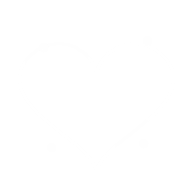
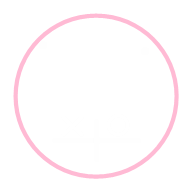
mejoras

Changed region(s): [[0.0625, 0.0625, 0.9375, 0.9375]]

diff --git a/styles.css b/styles.css
@@ -8,10 +8,33 @@
   --border: rgba(255,77,136,0.14);
   --text-main: #23162a;
   --text-soft: rgba(35,22,42,0.72);
+  --text-strong: #4a2740;
   --mio-bg: rgba(255,214,231,0.98);
   --suyo-bg: rgba(230,240,255,0.98);
+  --chat-bg: rgba(255,255,255,0.82);
+  --card-bg: linear-gradient(180deg, rgba(255,255,255,0.92), rgba(255,248,251,0.82));
+  --grid-line: rgba(255,77,136,0.05);
   color-scheme: light;
   font-size: 16px;
+}
+
+:root[data-theme="dark"] {
+  --theme-color: #ff6da3;
+  --theme-color-2: #8f74ff;
+  --bg-1: #17111f;
+  --bg-2: #271a35;
+  --surface: rgba(29,20,43,0.72);
+  --surface-strong: rgba(43,30,60,0.86);
+  --border: rgba(255,255,255,0.10);
+  --text-main: #f8eff8;
+  --text-soft: rgba(248,239,248,0.70);
+  --text-strong: #fff0fa;
+  --mio-bg: rgba(95,46,79,0.96);
+  --suyo-bg: rgba(49,63,95,0.96);
+  --chat-bg: rgba(24,18,37,0.82);
+  --card-bg: linear-gradient(180deg, rgba(37,26,51,0.94), rgba(26,18,39,0.88));
+  --grid-line: rgba(255,255,255,0.05);
+  color-scheme: dark;
 }
 
 * { box-sizing: border-box; }
@@ -39,7 +62,7 @@ body::before {
   content: "";
   position: fixed;
   inset: 0;
-  background-image: linear-gradient(rgba(255,77,136,0.05) 1px, transparent 1px), linear-gradient(90deg, rgba(255,77,136,0.05) 1px, transparent 1px);
+  background-image: linear-gradient(var(--grid-line) 1px, transparent 1px), linear-gradient(90deg, var(--grid-line) 1px, transparent 1px);
   background-size: 28px 28px;
   opacity: 0.22;
   pointer-events: none;
@@ -91,9 +114,15 @@ h1, h2, h3 {
   padding: 1.4rem;
   border: 1px solid var(--border);
   border-radius: 28px;
-  background: linear-gradient(180deg, rgba(255,255,255,0.92), rgba(255,248,251,0.82));
+  background: var(--card-bg);
   box-shadow: 0 18px 50px rgba(255,77,136,0.10);
   backdrop-filter: blur(18px);
+}
+
+.hero-actions {
+  display: flex;
+  justify-content: flex-end;
+  margin-bottom: 0.35rem;
 }
 
 .eyebrow {
@@ -108,6 +137,8 @@ h1, h2, h3 {
 h1 { font-size: clamp(2rem, 7vw, 4rem); animation: heartbeat 2.4s infinite; }
 h2 { font-size: clamp(1.15rem, 3vw, 1.5rem); color: #ffd8ea; }
 h3 { font-size: clamp(0.98rem, 2.6vw, 1.05rem); color: var(--text-soft); max-width: 60ch; margin: 0 auto; }
+
+:root[data-theme="dark"] h2 { color: #ffd0eb; }
 
 @keyframes heartbeat {
   0%, 100% { transform: scale(1); }
@@ -135,6 +166,64 @@ h3 { font-size: clamp(0.98rem, 2.6vw, 1.05rem); color: var(--text-soft); max-wid
   padding: 0.85rem 1rem;
   display: grid;
   gap: 0.35rem;
+}
+
+.players-panel {
+  display: grid;
+  grid-template-columns: repeat(2, minmax(0, 1fr));
+  gap: 0.65rem;
+}
+
+.player-badge {
+  display: flex;
+  align-items: center;
+  gap: 0.7rem;
+  padding: 0.8rem 0.9rem;
+  border-radius: 18px;
+  background: var(--surface-strong);
+  border: 1px solid var(--border);
+  box-shadow: inset 0 1px 0 rgba(255,255,255,0.08);
+}
+
+.player-badge[data-active-turn="true"] {
+  transform: translateY(-1px);
+  box-shadow: 0 12px 24px rgba(255,77,136,0.12);
+}
+
+.player-dot {
+  width: 12px;
+  height: 12px;
+  border-radius: 999px;
+  background: #cfc5d6;
+  box-shadow: 0 0 0 5px rgba(255,255,255,0.18);
+  flex: 0 0 auto;
+}
+
+.player-badge[data-status="online"] .player-dot {
+  background: #28c76f;
+}
+
+.player-badge[data-status="offline"] .player-dot {
+  background: #f4b740;
+}
+
+.player-badge[data-status="waiting"] .player-dot {
+  background: #c5b8cc;
+}
+
+.player-meta {
+  display: grid;
+  gap: 0.12rem;
+  text-align: left;
+}
+
+.player-meta strong {
+  color: var(--text-strong);
+}
+
+.player-meta span {
+  color: var(--text-soft);
+  font-size: 0.86rem;
 }
 
 .session-banner {
@@ -190,6 +279,12 @@ input {
   box-shadow: inset 0 0 0 1px rgba(255,77,136,0.14);
 }
 
+:root[data-theme="dark"] input {
+  color: var(--text-main);
+  background: rgba(255,255,255,0.08);
+  box-shadow: inset 0 0 0 1px rgba(255,255,255,0.08);
+}
+
 button {
   background: linear-gradient(135deg, var(--theme-color), var(--theme-color-2));
   color: #fff;
@@ -203,6 +298,12 @@ button.secondary-btn {
   color: #5f2948;
   border: 1px solid rgba(255,77,136,0.16);
   box-shadow: 0 12px 20px rgba(255,77,136,0.08);
+}
+
+:root[data-theme="dark"] button.secondary-btn {
+  background: rgba(255,255,255,0.08);
+  color: var(--text-main);
+  border-color: rgba(255,255,255,0.08);
 }
 
 button:hover { transform: translateY(-2px); box-shadow: 0 14px 24px rgba(255,77,136,0.24); }
@@ -252,6 +353,10 @@ button:active { transform: translateY(0); }
   transition: transform 0.18s ease, box-shadow 0.18s ease, filter 0.18s ease;
 }
 
+:root[data-theme="dark"] .celda {
+  background: linear-gradient(180deg, rgba(44,31,60,0.98), rgba(31,23,43,0.96));
+}
+
 .celda:hover { transform: translateY(-2px) scale(1.02); filter: brightness(1.02); }
 .celda span {
   position: absolute;
@@ -291,7 +396,7 @@ button:active { transform: translateY(0); }
   max-height: 540px;
   overflow-y: auto;
   border-radius: 16px;
-  background: rgba(255,255,255,0.82);
+  background: var(--chat-bg);
   padding: 0.45rem;
   border: 1px solid rgba(255,77,136,0.10);
 }
@@ -326,6 +431,10 @@ button:active { transform: translateY(0); }
   box-shadow: 0 8px 18px rgba(255,77,136,0.08);
 }
 
+:root[data-theme="dark"] .mensaje {
+  color: var(--text-main);
+}
+
 .mensaje.mio { background: var(--mio-bg); border-bottom-right-radius: 4px; }
 .mensaje.suyo { background: var(--suyo-bg); border-bottom-left-radius: 4px; }
 
@@ -337,6 +446,11 @@ button:active { transform: translateY(0); }
 .reply-text { font-size: 0.9em; color: #555; white-space: nowrap; overflow: hidden; text-overflow: ellipsis; }
 .reactions-container { display: flex; gap: 4px; margin-top: 4px; flex-wrap: wrap; }
 .reaction-pill { background: rgba(255,255,255,0.9); border-radius: 999px; padding: 2px 6px; font-size: 0.8em; box-shadow: 0 1px 2px rgba(0,0,0,0.08); }
+
+:root[data-theme="dark"] .reaction-pill {
+  background: rgba(255,255,255,0.12);
+  color: var(--text-main);
+}
 
 .mensaje img {
   width: 100%;
@@ -385,6 +499,7 @@ button:active { transform: translateY(0); }
   .page-shell { padding: 0.75rem; }
   .hero-card { padding: 1rem; border-radius: 22px; }
   #controls, #chat, .status-panel { border-radius: 18px; }
+  .players-panel { grid-template-columns: 1fr; }
   .game-layout { grid-template-columns: 1fr; }
   #tablero { max-width: 420px; margin: 0 auto; }
   #chatBox { min-height: 240px; }

diff --git a/app.js b/app.js
@@ -30,7 +30,8 @@ const PRESENCE_STALE_MS = 25000;
 const STORAGE_KEYS = {
   clientId: "tresenraya-client-id",
   playerName: "tresenraya-player-name",
-  gameCode: "tresenraya-game-code"
+  gameCode: "tresenraya-game-code",
+  theme: "tresenraya-theme"
 };
 
 function getOrCreateClientId() {
@@ -65,6 +66,10 @@ const dom = {
   marcador: document.getElementById("marcador"),
   sessionBanner: document.getElementById("sessionBanner"),
   instalarBtn: document.getElementById("instalarBtn"),
+  themeToggleBtn: document.getElementById("themeToggleBtn"),
+  themeColorMeta: document.getElementById("themeColorMeta"),
+  player1Badge: document.getElementById("player1Badge"),
+  player2Badge: document.getElementById("player2Badge"),
   typingIndicator: document.getElementById("typingIndicator"),
   replyPreview: document.getElementById("replyPreview"),
   replyPreviewAuthor: document.getElementById("replyPreviewAuthor"),
@@ -78,9 +83,49 @@ const dom = {
 dom.nombreInput.value = localStorage.getItem(STORAGE_KEYS.playerName) || "";
 dom.codigoInput.value = localStorage.getItem(STORAGE_KEYS.gameCode) || "";
 
+function obtenerTemaInicial() {
+  const temaGuardado = localStorage.getItem(STORAGE_KEYS.theme);
+  if (temaGuardado === "light" || temaGuardado === "dark") return temaGuardado;
+  return window.matchMedia("(prefers-color-scheme: dark)").matches ? "dark" : "light";
+}
+
+function aplicarTema(theme) {
+  document.documentElement.dataset.theme = theme;
+  localStorage.setItem(STORAGE_KEYS.theme, theme);
+  const esOscuro = theme === "dark";
+  dom.themeToggleBtn.textContent = esOscuro ? "☀ Modo claro" : "🌙 Modo oscuro";
+  dom.themeColorMeta.setAttribute("content", esOscuro ? "#20152d" : "#ff4d88");
+}
+
+aplicarTema(obtenerTemaInicial());
+
 function setSessionBanner(texto, state = "idle") {
   dom.sessionBanner.textContent = texto;
   dom.sessionBanner.dataset.state = state;
+}
+
+function actualizarIndicadoresJugadores() {
+  const jugadores = [
+    { slot: "jugador1", badge: dom.player1Badge, fallback: "Jugador 1" },
+    { slot: "jugador2", badge: dom.player2Badge, fallback: "Jugador 2" }
+  ];
+
+  jugadores.forEach(({ slot, badge, fallback }) => {
+    const jugador = estadoJuegoActual?.[slot];
+    const titulo = badge.querySelector("strong");
+    const subtitulo = badge.querySelector("span:last-child");
+    const activo = esPresenciaActiva(jugador);
+    const esTurno = estadoJuegoActual?.turno === slot;
+    const esYo = jugador?.id === clientId;
+
+    titulo.textContent = jugador?.nombre || fallback;
+    subtitulo.textContent = jugador
+      ? `${activo ? "En linea" : "Desconectado"}${esYo ? " · Tú" : ""}${esTurno ? " · Turno" : ""}`
+      : "Esperando...";
+
+    badge.dataset.status = jugador ? (activo ? "online" : "offline") : "waiting";
+    badge.dataset.activeTurn = esTurno ? "true" : "false";
+  });
 }
 
 function esJugadorActivo(jugador) {
@@ -324,6 +369,7 @@ function escucharJuego() {
 
     actualizarTableroUI();
     actualizarMarcadorUI();
+    actualizarIndicadoresJugadores();
     actualizarTypingIndicator();
     if (state.estado === "finalizado") {
       setSessionBanner("Partida finalizada. Puedes reiniciar cuando quieras.", "success");
@@ -664,6 +710,10 @@ dom.mensajeInput.addEventListener("input", () => {
 });
 
 dom.reiniciarBtn.addEventListener("click", resetJuego);
+dom.themeToggleBtn.addEventListener("click", () => {
+  const siguienteTema = document.documentElement.dataset.theme === "dark" ? "light" : "dark";
+  aplicarTema(siguienteTema);
+});
 dom.instalarBtn.addEventListener("click", async () => {
   if (!deferredInstallPrompt) {
     setSessionBanner("Tu navegador no mostró la opción de instalar todavía.", "warning");

diff --git a/index.html b/index.html
@@ -4,7 +4,7 @@
   <meta charset="UTF-8" />
   <meta name="viewport" content="width=device-width, initial-scale=1.0" />
   <title>Juego de X0 con amor 💖</title>
-  <meta name="theme-color" content="#ff4d88" />
+  <meta name="theme-color" content="#ff4d88" id="themeColorMeta" />
   <meta name="description" content="Juego de tres en raya con chat, reacciones y experiencia PWA para jugar en pareja." />
   <meta name="apple-mobile-web-app-capable" content="yes" />
   <meta name="apple-mobile-web-app-status-bar-style" content="default" />
@@ -16,6 +16,9 @@
   <div class="page-shell">
     <main class="main-container">
       <header class="hero-card">
+        <div class="hero-actions">
+          <button id="themeToggleBtn" type="button" class="secondary-btn theme-toggle-btn" aria-label="Cambiar tema">🌙 Modo oscuro</button>
+        </div>
         <p class="eyebrow">Pareja conectada</p>
         <h1>❤ Te amo mucho mi amor ❤</h1>
         <h2 id="titulo2">Juntos por siempre</h2>
@@ -34,6 +37,22 @@
 
       <section class="status-panel" aria-live="polite">
         <div id="sessionBanner" class="session-banner" data-state="idle">Listo para jugar</div>
+        <div class="players-panel" aria-label="Estado de jugadores">
+          <div id="player1Badge" class="player-badge">
+            <span class="player-dot"></span>
+            <div class="player-meta">
+              <strong>Jugador 1</strong>
+              <span>Esperando...</span>
+            </div>
+          </div>
+          <div id="player2Badge" class="player-badge">
+            <span class="player-dot"></span>
+            <div class="player-meta">
+              <strong>Jugador 2</strong>
+              <span>Esperando...</span>
+            </div>
+          </div>
+        </div>
         <p id="codigoJuego"></p>
         <div id="marcador"></div>
         <p id="estadoJuego"></p>

diff --git a/sw.js b/sw.js
@@ -1,4 +1,4 @@
-const CACHE_NAME = "tres-en-raya-cache-v1";
+const CACHE_NAME = "tres-en-raya-cache-v2";
 const ASSETS = [
   "./",
   "./index.html",
